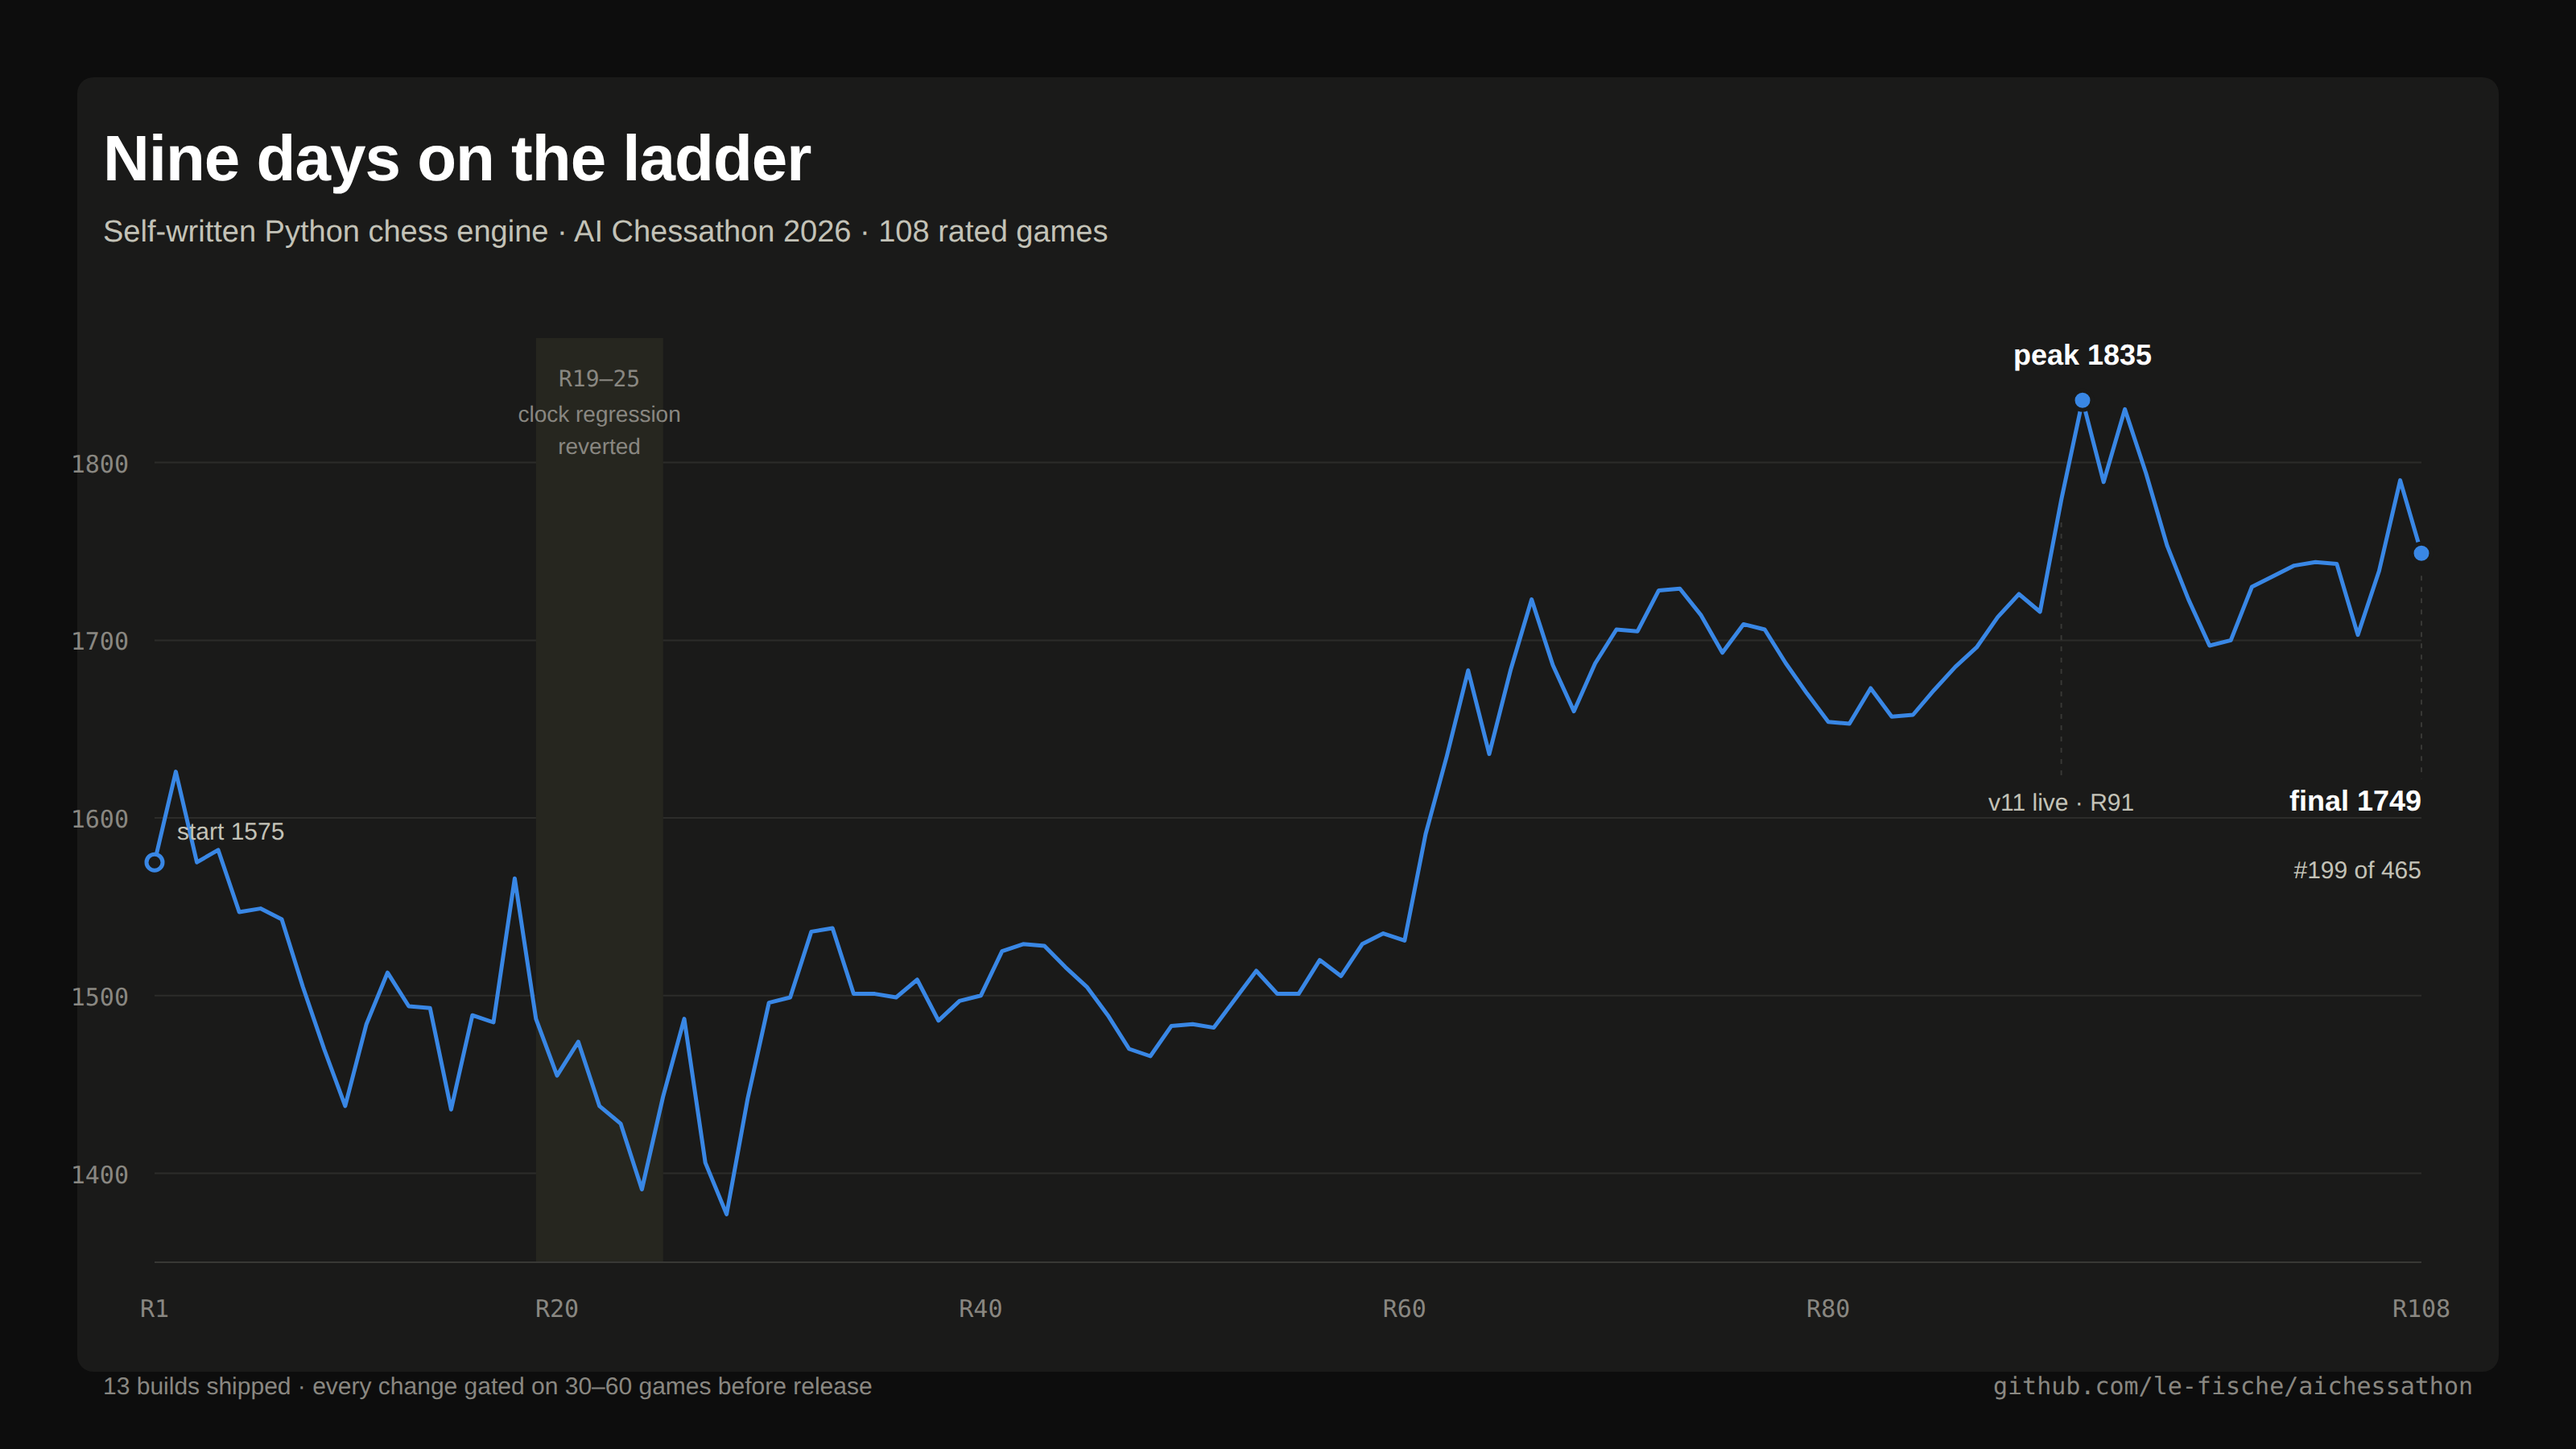
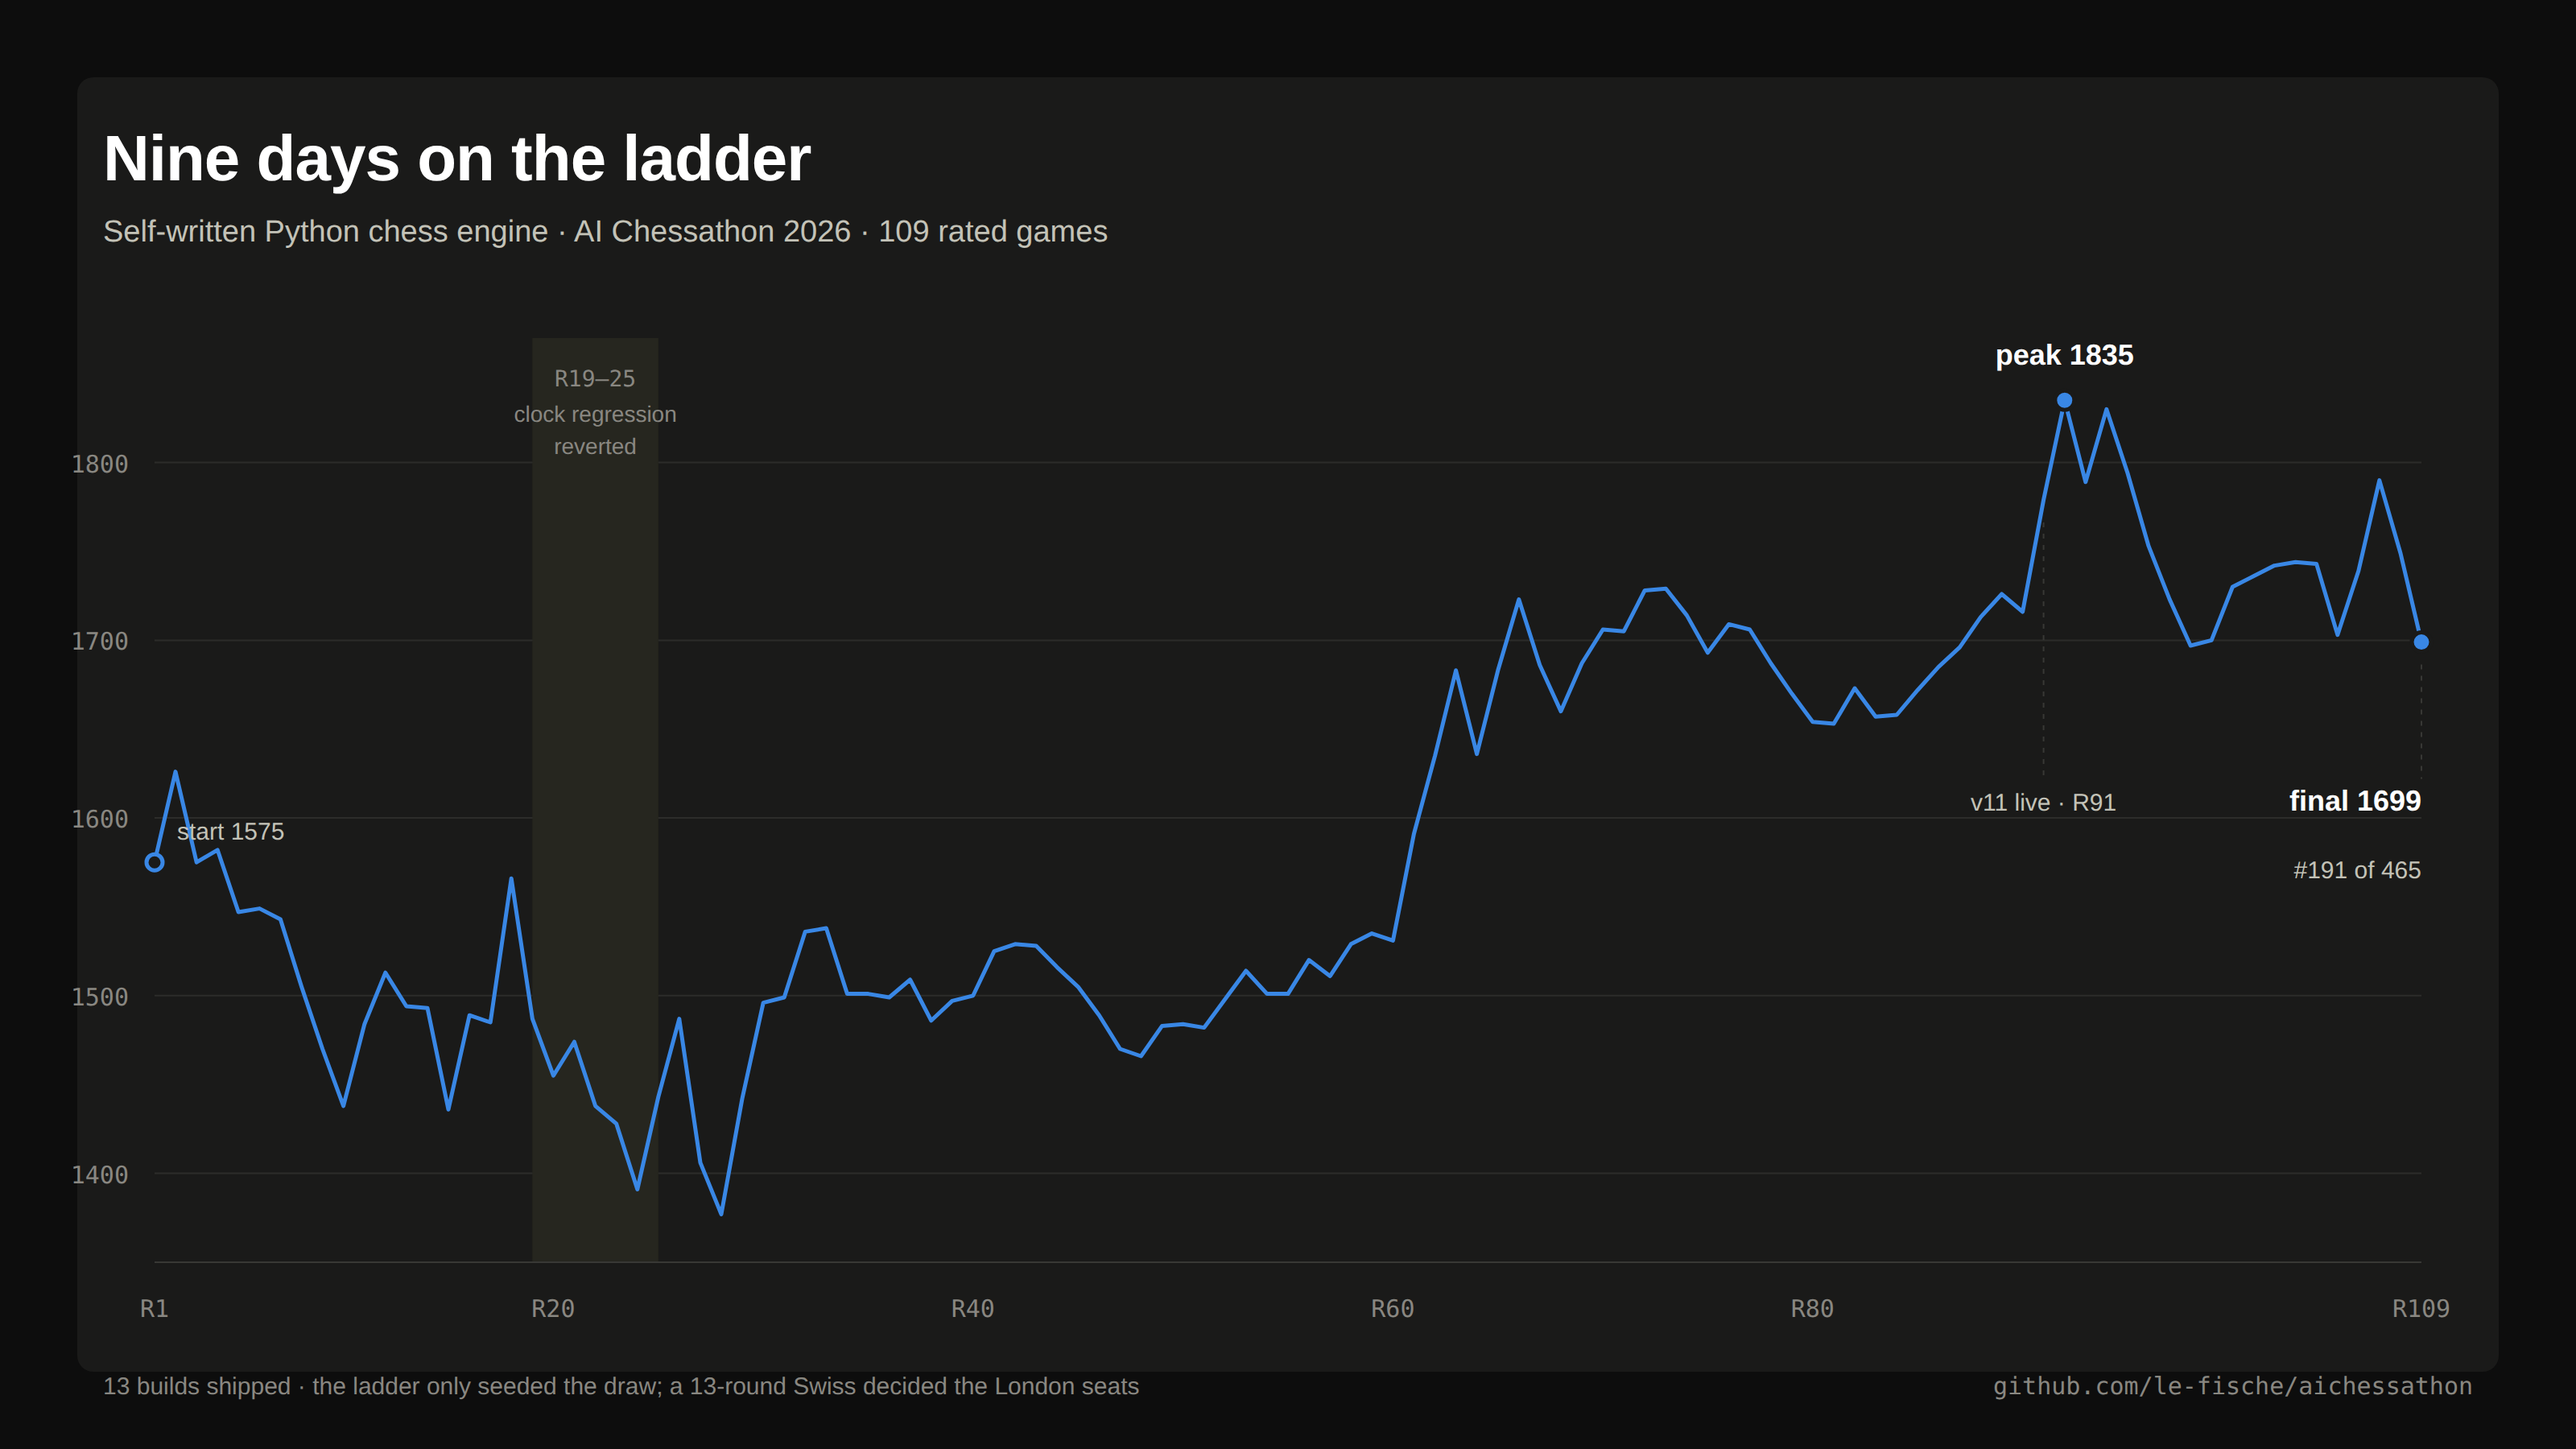
docs: correct the results against the restored official dashboard
The dashboard was offline when these figures were first drawn, so the
headline came from memory and was wrong. Corrected against the live
source:

  ladder   191st of 465, not "around 199th"
           final rating 1699 over 109 rated rounds, not 1749 over 108

And the outcome that actually mattered was missing entirely. The ladder
only seeded the draw; seats were decided by a 13-round Swiss:

  135th of 334, 5-4-4, 7.0 points, performance rating 1785
  top 50 qualified for London; the cut fell at 8.5, split on Buchholz

Adds figure 05, the Swiss points distribution across the whole field with
the cut and our score marked, and notes against ourselves that the build
which played it was untested and still performed at 1785 -- which 13 games
cannot establish, the standard error being roughly +/-140 Elo.

Figure 01 regenerated with round 109 and the corrected final figures.

diff --git a/tools/viz/c5_swiss.py b/tools/viz/c5_swiss.py
@@ -1,0 +1,87 @@
+"""Chart 5: the 13-round qualification Swiss -- the event that actually decided seats.
+
+Field, points and the cut are read from the official final-qualification table:
+334 ranked entries, 50 London seats.
+"""
+from theme import *
+
+# points -> number of entrants, from the final qualification leaderboard
+DIST = {0.5: 1, 1.0: 0, 1.5: 1, 2.0: 1, 2.5: 0, 3.0: 2, 3.5: 6, 4.0: 19, 4.5: 22,
+        5.0: 28, 5.5: 31, 6.0: 39, 6.5: 33, 7.0: 41, 7.5: 28, 8.0: 29, 8.5: 22,
+        9.0: 16, 9.5: 9, 10.0: 5, 10.5: 1}
+OURS, CUT, FIELD, SEATS = 7.0, 8.5, 334, 50
+
+W, H = 1600, 900
+L, R, TOP = 96, 96, 300
+PH = 380
+
+
+def build(mode):
+    t = THEMES[mode]
+    keys = sorted(DIST)
+    pw = W - L - R
+    step = pw / len(keys)
+    bw = step * 0.62
+    mx = max(DIST.values())
+
+    def bx(i):  return L + i * step + (step - bw) / 2
+    def by(n):  return TOP + PH - (n / mx) * PH
+
+    o = [svg_open(W, H, t), rect(48, 48, W - 96, H - 96, t["surface"], rx=10)]
+    o.append(text(64, 112, "Missed London by a point and a half", t["ink"], 40, 600, spacing="-0.5"))
+    o.append(text(64, 150, "Final qualification Swiss · 13 rounds · 334 ranked entries · top 50 took a seat",
+                  t["secondary"], 19))
+
+    # headline figures
+    for i, (v, lab) in enumerate([("#135", "final placing"), ("7.0", "points from 13"),
+                                  ("5–4–4", "win–draw–loss"), ("1785", "performance rating")]):
+        x = 64 + i * 200
+        o.append(text(x, 216, v, t["ink"], 34, 600, family=MONO))
+        o.append(text(x, 240, lab, t["muted"], 15))
+
+    cut_i = keys.index(CUT)
+    # everything at or above the cut is the qualifying side of the draw
+    o.append(rect(L + cut_i * step, TOP - 34, pw - cut_i * step, PH + 34, t["band"]))
+
+    for i, k in enumerate(keys):
+        n = DIST[k]
+        if n == 0:
+            continue
+        ours = abs(k - OURS) < 1e-9
+        col = t["series1"] if ours else t["axis"]
+        o.append(rect(bx(i), by(n), bw, TOP + PH - by(n), col, rx=4))
+        if n >= 30 and not ours:
+            o.append(text(bx(i) + bw / 2, by(n) - 10, str(n), t["muted"], 15,
+                          anchor="middle", family=MONO))
+
+    # axis
+    o.append(line(L, TOP + PH, W - R, TOP + PH, t["axis"], 1))
+    for i, k in enumerate(keys):
+        if k * 2 % 2 == 0:
+            o.append(text(bx(i) + bw / 2, TOP + PH + 28, f"{k:g}", t["muted"], 15,
+                          anchor="middle", family=MONO))
+    o.append(text((L + W - R) / 2, TOP + PH + 62, "points from 13 games", t["secondary"], 16, anchor="middle"))
+
+    # the cut
+    cx = L + cut_i * step
+    o.append(line(cx, TOP - 34, cx, TOP + PH, t["ink"], 1.5, dash="4 5"))
+    o.append(text(W - R, TOP - 44, f"{SEATS} London seats — cut at {CUT:g}, split on Buchholz",
+                  t["ink"], 16, 600, anchor="end"))
+
+    # ours
+    ox = bx(keys.index(OURS)) + bw / 2
+    o.append(line(ox, by(DIST[OURS]) - 34, ox, by(DIST[OURS]) - 14, t["series1"], 1.5))
+    o.append(text(ox, by(DIST[OURS]) - 42, "us — 7.0, the modal score (41)", t["series1"], 16, 600, anchor="middle"))
+
+    o.append(text(64, H - 118, "Three more draws would have reached the cut. The engine that played this was "
+                              "shipped seven minutes before the lock", t["secondary"], 17))
+    o.append(text(64, H - 94, "and had never played a rated game.", t["secondary"], 17))
+
+    o.append(footer(W, H, t, "Ladder rank #191 of 465 seeded the draw; it did not decide seats"))
+    o.append("</svg>")
+    return "".join(o)
+
+
+for m in ("light", "dark"):
+    open(f"out/05-final-swiss-{m}.svg", "w").write(build(m))
+print("ok")

diff --git a/tools/viz/c1_rating.py b/tools/viz/c1_rating.py
@@ -13,7 +13,7 @@ RATING = [1575,1626,1575,1582,1547,1549,1543,1505,1470,1438,1484,1513,1494,1493,
           1511,1529,1535,1531,1591,1635,1683,1636,1683,1723,1686,1660,1687,1706,
           1705,1728,1729,1714,1693,1709,1706,1687,1670,1654,1653,1673,1657,1658,
           1672,1685,1696,1713,1726,1716,1779,1835,1789,1830,1794,1753,1723,1697,
-          1700,1730,1736,1742,1744,1743,1703,1739,1790,1749]
+          1700,1730,1736,1742,1744,1743,1703,1739,1790,1749,1699]
 
 W, H = 1600, 900
 L, R, TOP, BOT = 96, 96, 210, 116
@@ -31,7 +31,7 @@ def build(mode):
 
     # Header
     o.append(text(64, 112, "Nine days on the ladder", t["ink"], 40, 600, spacing="-0.5"))
-    o.append(text(64, 150, "Self-written Python chess engine · AI Chessathon 2026 · 108 rated games",
+    o.append(text(64, 150, "Self-written Python chess engine · AI Chessathon 2026 · 109 rated games",
                   t["secondary"], 19))
 
     # Gridlines and y labels
@@ -47,7 +47,7 @@ def build(mode):
     o.append(text((px(18) + px(24)) / 2, TOP + 72, "reverted", t["muted"], 14, anchor="middle"))
 
     # x ticks
-    for r in (1, 20, 40, 60, 80, 108):
+    for r in (1, 20, 40, 60, 80, 109):
         o.append(text(px(r - 1), H - BOT + 34, f"R{r}", t["muted"], 15, anchor="middle", family=MONO))
     o.append(line(L, TOP + ph, W - R, TOP + ph, t["axis"], 1))
 
@@ -69,13 +69,13 @@ def build(mode):
     ifn = len(RATING) - 1
     o.append(circle(px(ifn), py(RATING[ifn]), 6, t["series1"], t["surface"], 2.5))
     o.append(line(px(ifn), py(RATING[ifn]) + 14, px(ifn), py(1622), t["axis"], 1, dash="3 4"))
-    o.append(text(px(ifn), py(1604), "final 1749", t["ink"], 18, 600, anchor="end"))
-    o.append(text(px(ifn), py(1566), "#199 of 465", t["secondary"], 15, anchor="end"))
+    o.append(text(px(ifn), py(1604), "final 1699", t["ink"], 18, 600, anchor="end"))
+    o.append(text(px(ifn), py(1566), "#191 of 465", t["secondary"], 15, anchor="end"))
 
     o.append(circle(px(0), py(RATING[0]), 5, t["surface"], t["series1"], 2.5))
     o.append(text(px(0) + 14, py(RATING[0]) - 14, "start 1575", t["secondary"], 15))
 
-    o.append(footer(W, H, t, "13 builds shipped · every change gated on 30–60 games before release"))
+    o.append(footer(W, H, t, "13 builds shipped · the ladder only seeded the draw; a 13-round Swiss decided the London seats"))
     o.append("</svg>")
     return "".join(o)
 

diff --git a/README.md b/README.md
@@ -4,9 +4,11 @@ A chess engine written from scratch in Python for the [AI Chessathon](https://ai
 September 2026. No third-party engine code — the search, the evaluation and the move
 generation are all ours.
 
-**Result: finished around 199th of 465 entrants.** Peak rating 1835, final 1749, across
-108 rated games. That is mid-field, and [the post-mortem below](#post-mortem-why-it-finished-mid-field)
-says why in more detail than is comfortable.
+**Result: 135th of 334 in the final qualification Swiss — 5–4–4 over 13 rounds, 7.0 points,
+performance rating 1785.** The top 50 took a seat at the London final; the cut fell at 8.5.
+On the seeding ladder: 191st of 465, peak rating 1835, final 1699 across 109 rated games.
+That is mid-field, and [the post-mortem below](#post-mortem-why-it-finished-mid-field) says
+why in more detail than is comfortable.
 
 Built by [Houze Guo](https://github.com/le-fische) and
 [Gede Danny Putra Budiada](https://github.com/dannybud19) over nine days, from a
@@ -14,8 +16,23 @@ standing start.
 
 <picture>
   <source media="(prefers-color-scheme: dark)" srcset="docs/images/01-rating-trajectory-dark.png">
-  <img alt="Ladder rating across all 108 rated rounds, 1575 to a peak of 1835, finishing 1749" src="docs/images/01-rating-trajectory-light.png">
+  <img alt="Ladder rating across all 109 rated rounds, 1575 to a peak of 1835, finishing 1699" src="docs/images/01-rating-trajectory-light.png">
 </picture>
+
+The ladder above only seeded the draw. Seats were decided by a 13-round Swiss over builds
+locked at the deadline:
+
+<picture>
+  <source media="(prefers-color-scheme: dark)" srcset="docs/images/05-final-swiss-dark.png">
+  <img alt="Final Swiss points distribution: 7.0 points against a cut of 8.5 for the top 50" src="docs/images/05-final-swiss-light.png">
+</picture>
+
+Worth one caveat against ourselves. The build that played that Swiss was finished seven
+minutes before the lock and had never played a rated game — no gate, no evidence — and it
+performed at 1785 against a ladder rating of 1699. It would be easy to read that as the
+untested change working. It isn't: 13 games carries a standard error of roughly ±140 Elo,
+which is the same measurement problem described below, just pointing in a flattering
+direction for once.
 
 ---
 
@@ -246,8 +263,8 @@ shipped on. Several times that discipline caught something that a more optimisti
 would have shipped: the pawn-structure regression at 40.0%, the moves-to-go clock that cost
 79 rating points in six rounds, and the eval divergence between the numba and Python paths.
 
-Finishing 199th with an engine that is honestly documented is a better outcome than
-finishing 150th with one whose numbers nobody can reproduce.
+Finishing mid-field with an engine that is honestly documented is a better outcome than
+finishing fifty places higher with one whose numbers nobody can reproduce.
 
 ---
 
